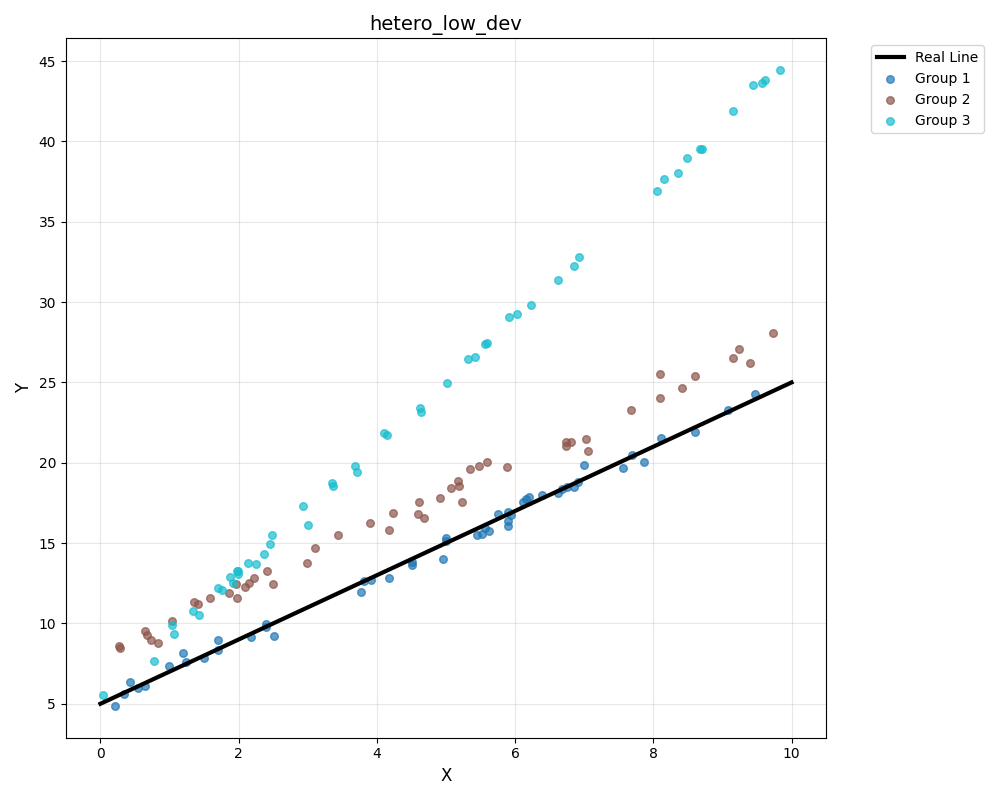
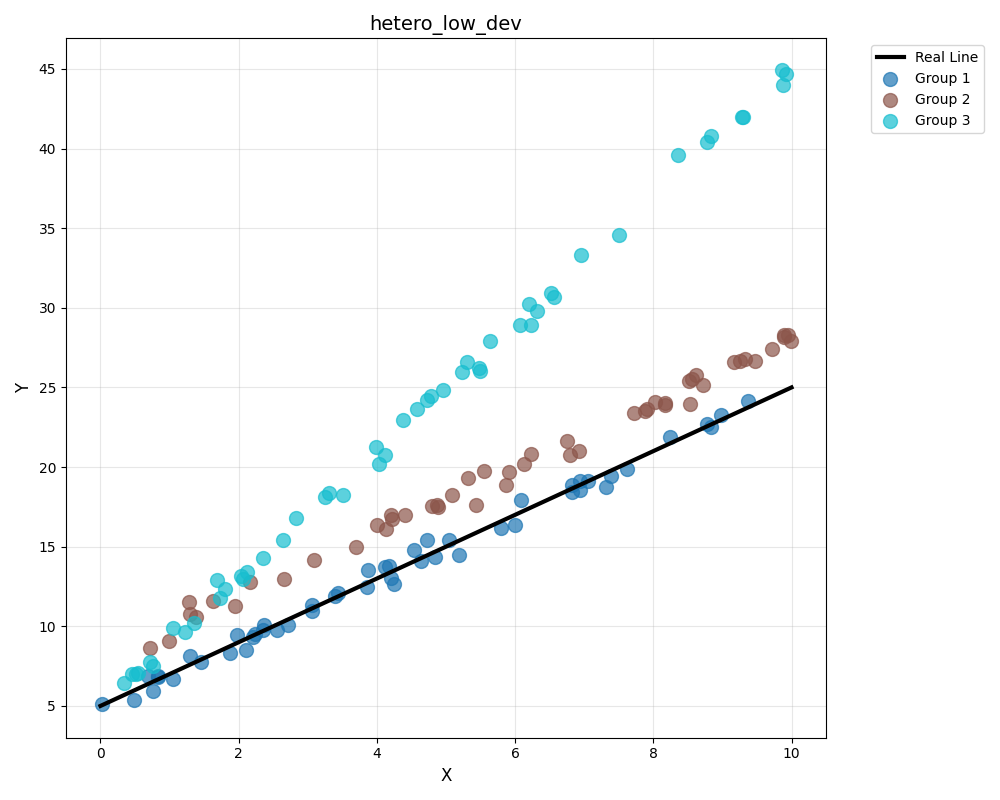
added new updates to readme

diff --git a/plot/dataset_visualizer.py b/plot/dataset_visualizer.py
@@ -46,7 +46,7 @@ def generate_linear_plot(real_slope, real_constant, starting_x, ending_x, error_
         
         # Plot the points for this group
         plt.scatter(x_points, y_points, color=colors[i], alpha=0.7, 
-                   s=30, label=f'Group {i+1}', zorder=5)
+                   s=100, label=f'Group {i+1}', zorder=5)
     
     # Customize the plot
     plt.xlabel('X', fontsize=12)

diff --git a/README.md b/README.md
@@ -1,17 +1,29 @@
 # FLSim
 
-A tool for simulation and analysis of top FL client selection algorithms.
+A tool for simulation and analysis of top Federated learning (FL) client selection (CS) algorithms.
 
 **WARNING**: This project is in working progress. Public contributions will not be merged since this is a school project, sadly :( You can check out the TO DO list at the bottom to track the current status of the project.
 
 ## Simulation Logic
 
-This simulation tries to derive a 2D line using federated learning on 15 clients. We assume that we have are trying to reach a "true" line, and create different syntetic datasets for clients, where some follow this "true" line, and some don't. Clients all have different download, compute and upload time, and they differ in many other ways as well. User can adjust these parameters as explained later to run the simulation in different settings. The following client selection algorithms can be selected in the simulation:
+This simulation tries to derive a 2D line using federated learning on 15 clients. We assume that we have are trying to reach a "true" line, and create different syntetic datasets for clients, where some follow this "true" line, and some don't. Clients all have different download, compute and upload time, and they differ in many other ways as well. User can adjust these parameters as explained later to run the simulation in different settings. Simulation currently supports the following client selection algorithms:
 
-- Loss based client selection
-- Threshold based client selection
-- Reputation based client selection
-- Multi-criteria based client selection
+- **Loss based client selection**: Selects clients with the highest training loss to participate in the next round
+
+- **Threshold based client selection**: Chooses clients who submit their local updates before the deadline
+
+- **Reputation based client selection**: Picks clients based on their historical response times
+
+- **Multi-criteria based client selection**: Selects clients using a combination of factors such as:
+    - Response time
+    - Dataset size
+    - Sample freshness
+    - Loss
+
+- **Random client selection**: Randomly selects clients from the available pool for each round
+
+- **Pick-all client selection**: Includes all available clients in every training round
+
 
 ## Experiments
 
@@ -19,7 +31,7 @@ This simulation tries to derive a 2D line using federated learning on 15 clients
 
 Before running the experiment, you should go into the run_experiment.py file in the root directory, and modify the variables according to your needs. Values that can be modified can be found between "VARIABLE SPOT START" and "VARIABLE SPOT END". The explanation of the possible values for the exp_type variable is given below, since it is not clear from the get go.
 
-To run an experiment, run the run_all_exp.py file located in the managers/ directory. This will run all simulations with all possible CS algo + dataset pretune combinations (so 4*6=24 experiments) in parallel, and repeat this 10 times to get averaged results. The results from the experiment will be saved under plot/outputs/ directory.
+To run an experiment, run the run_all_exp.py file located in the managers/ directory. This will run all simulations with all possible CS algo + dataset pretune combinations (so 4*6=24 experiments) in parallel, and repeat this multiple times to get averaged results. The results from the experiment will be saved under plot/outputs/ directory.
 
 ### Pretuned Datasets
 
@@ -40,45 +52,5 @@ There are several pretuned experiment datasets for a user to utilize. The datase
 - **hetero_low_dev**: Syntetic datasets of clients follow different normal distributions. In particular, some are positively skewed, and some are on the true line. But they follow low individual deviations.
 <p align="center"><img src="plot/dataset_visualizations/hetero_low_dev.png" height="300"></p>
 
-- **hetero_low_dev**: Syntetic datasets of clients follow different normal distributions. In particular, some are positively skewed, and some are on the true line. They follow high individual deviations.
+- **hetero_high_dev**: Syntetic datasets of clients follow different normal distributions. In particular, some are positively skewed, and some are on the true line. They follow high individual deviations.
 <p align="center"><img src="plot/dataset_visualizations/hetero_high_dev.png" height="300"></p>
-
-
-**WARNING**: Picking high resp_var and non-homo experiment_type may result in inconsistent experiment result, as clients are attended response times randomly.
-
-## TO DO
-
-**Simulation Framework** ✅
-
-**Client Selection Algorithms**✅
-
-- Loss Based ✅
-- Threshold Based✅
-- Reputation Based✅
-- Multi-criteria Based✅
-
-**Datasets**✅
-
-- homo_low_dev ✅
-- homo_high_dev ✅
-- semi_homo_low_dev ✅
-- semi_homo_high_dev ✅
-- hetero_low_dev ✅
-- hetero_low_dev ✅
-
-**Logging** ✅
-
-**Simulation-time client attribute updates** ✅
-
-**Global seed for randomization** ✅
-
-**Add requirements file** ✅
-
-**Add sample freshness for multi-criteria** ✅
-
-**UI**
-
-
-## UPDATE NOTES
-
-CLI usability was implemented, but later reverted because of the difficulty of usability caused by the high number of variables that can be modified.
